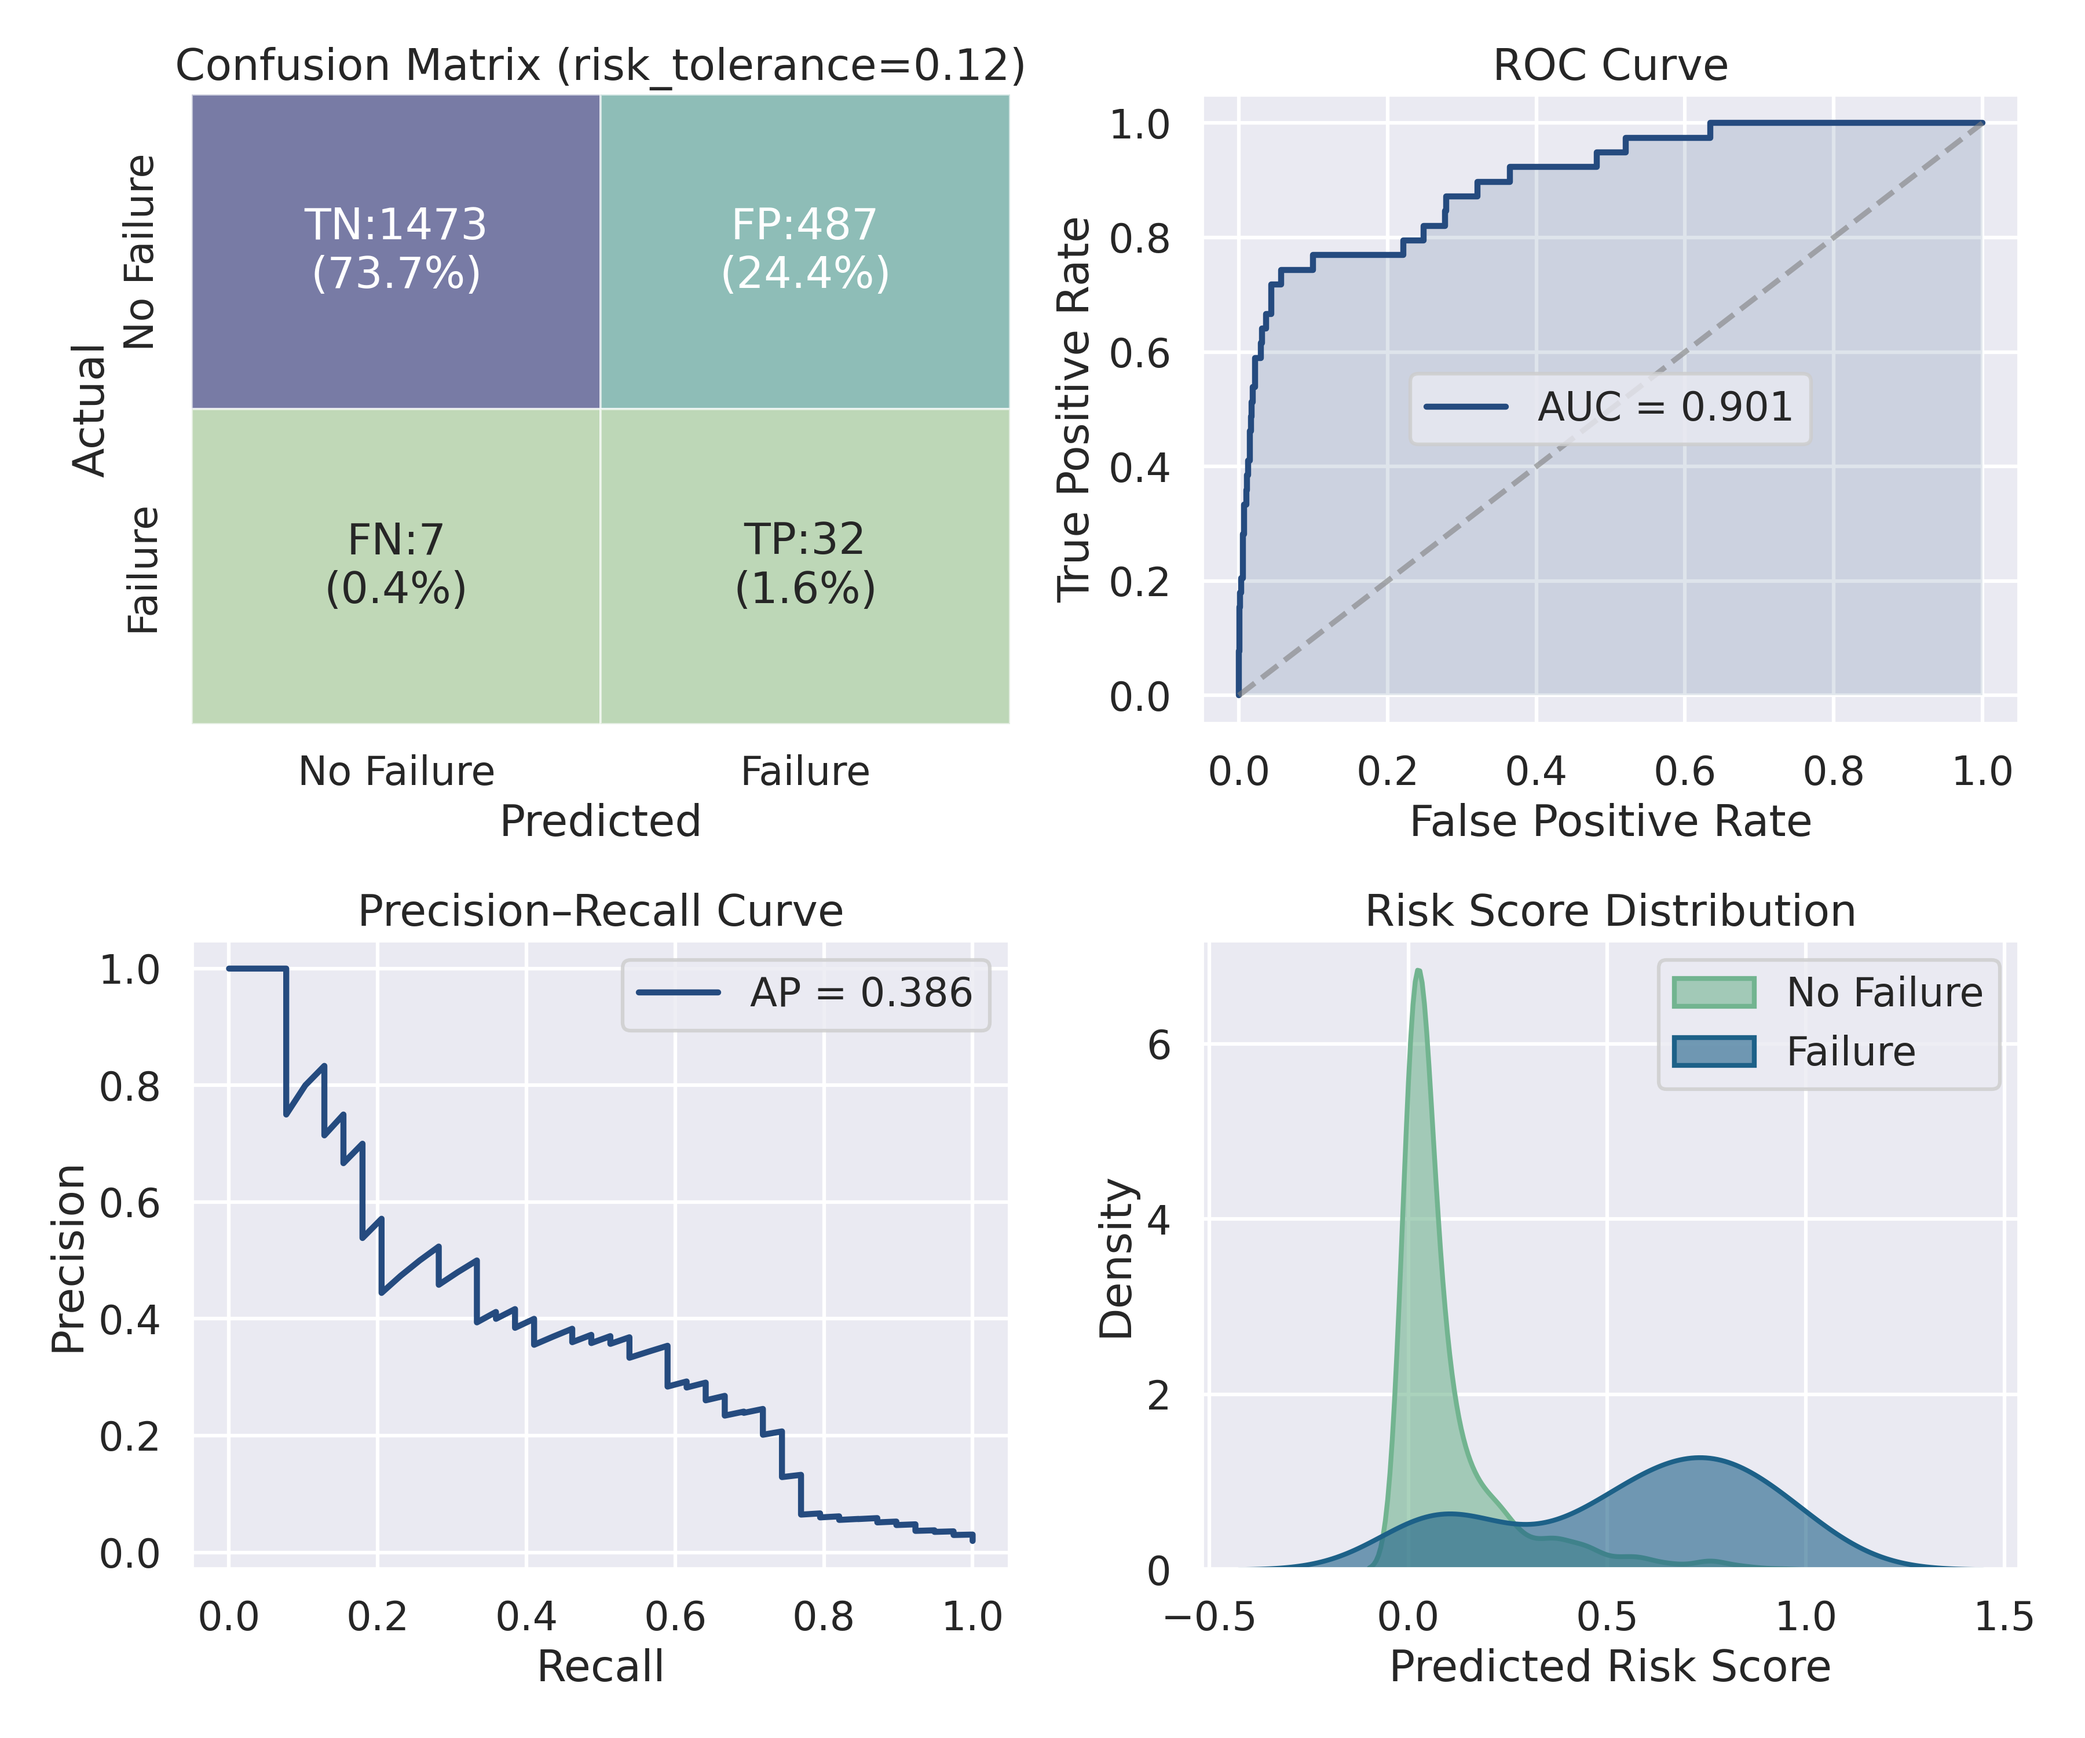
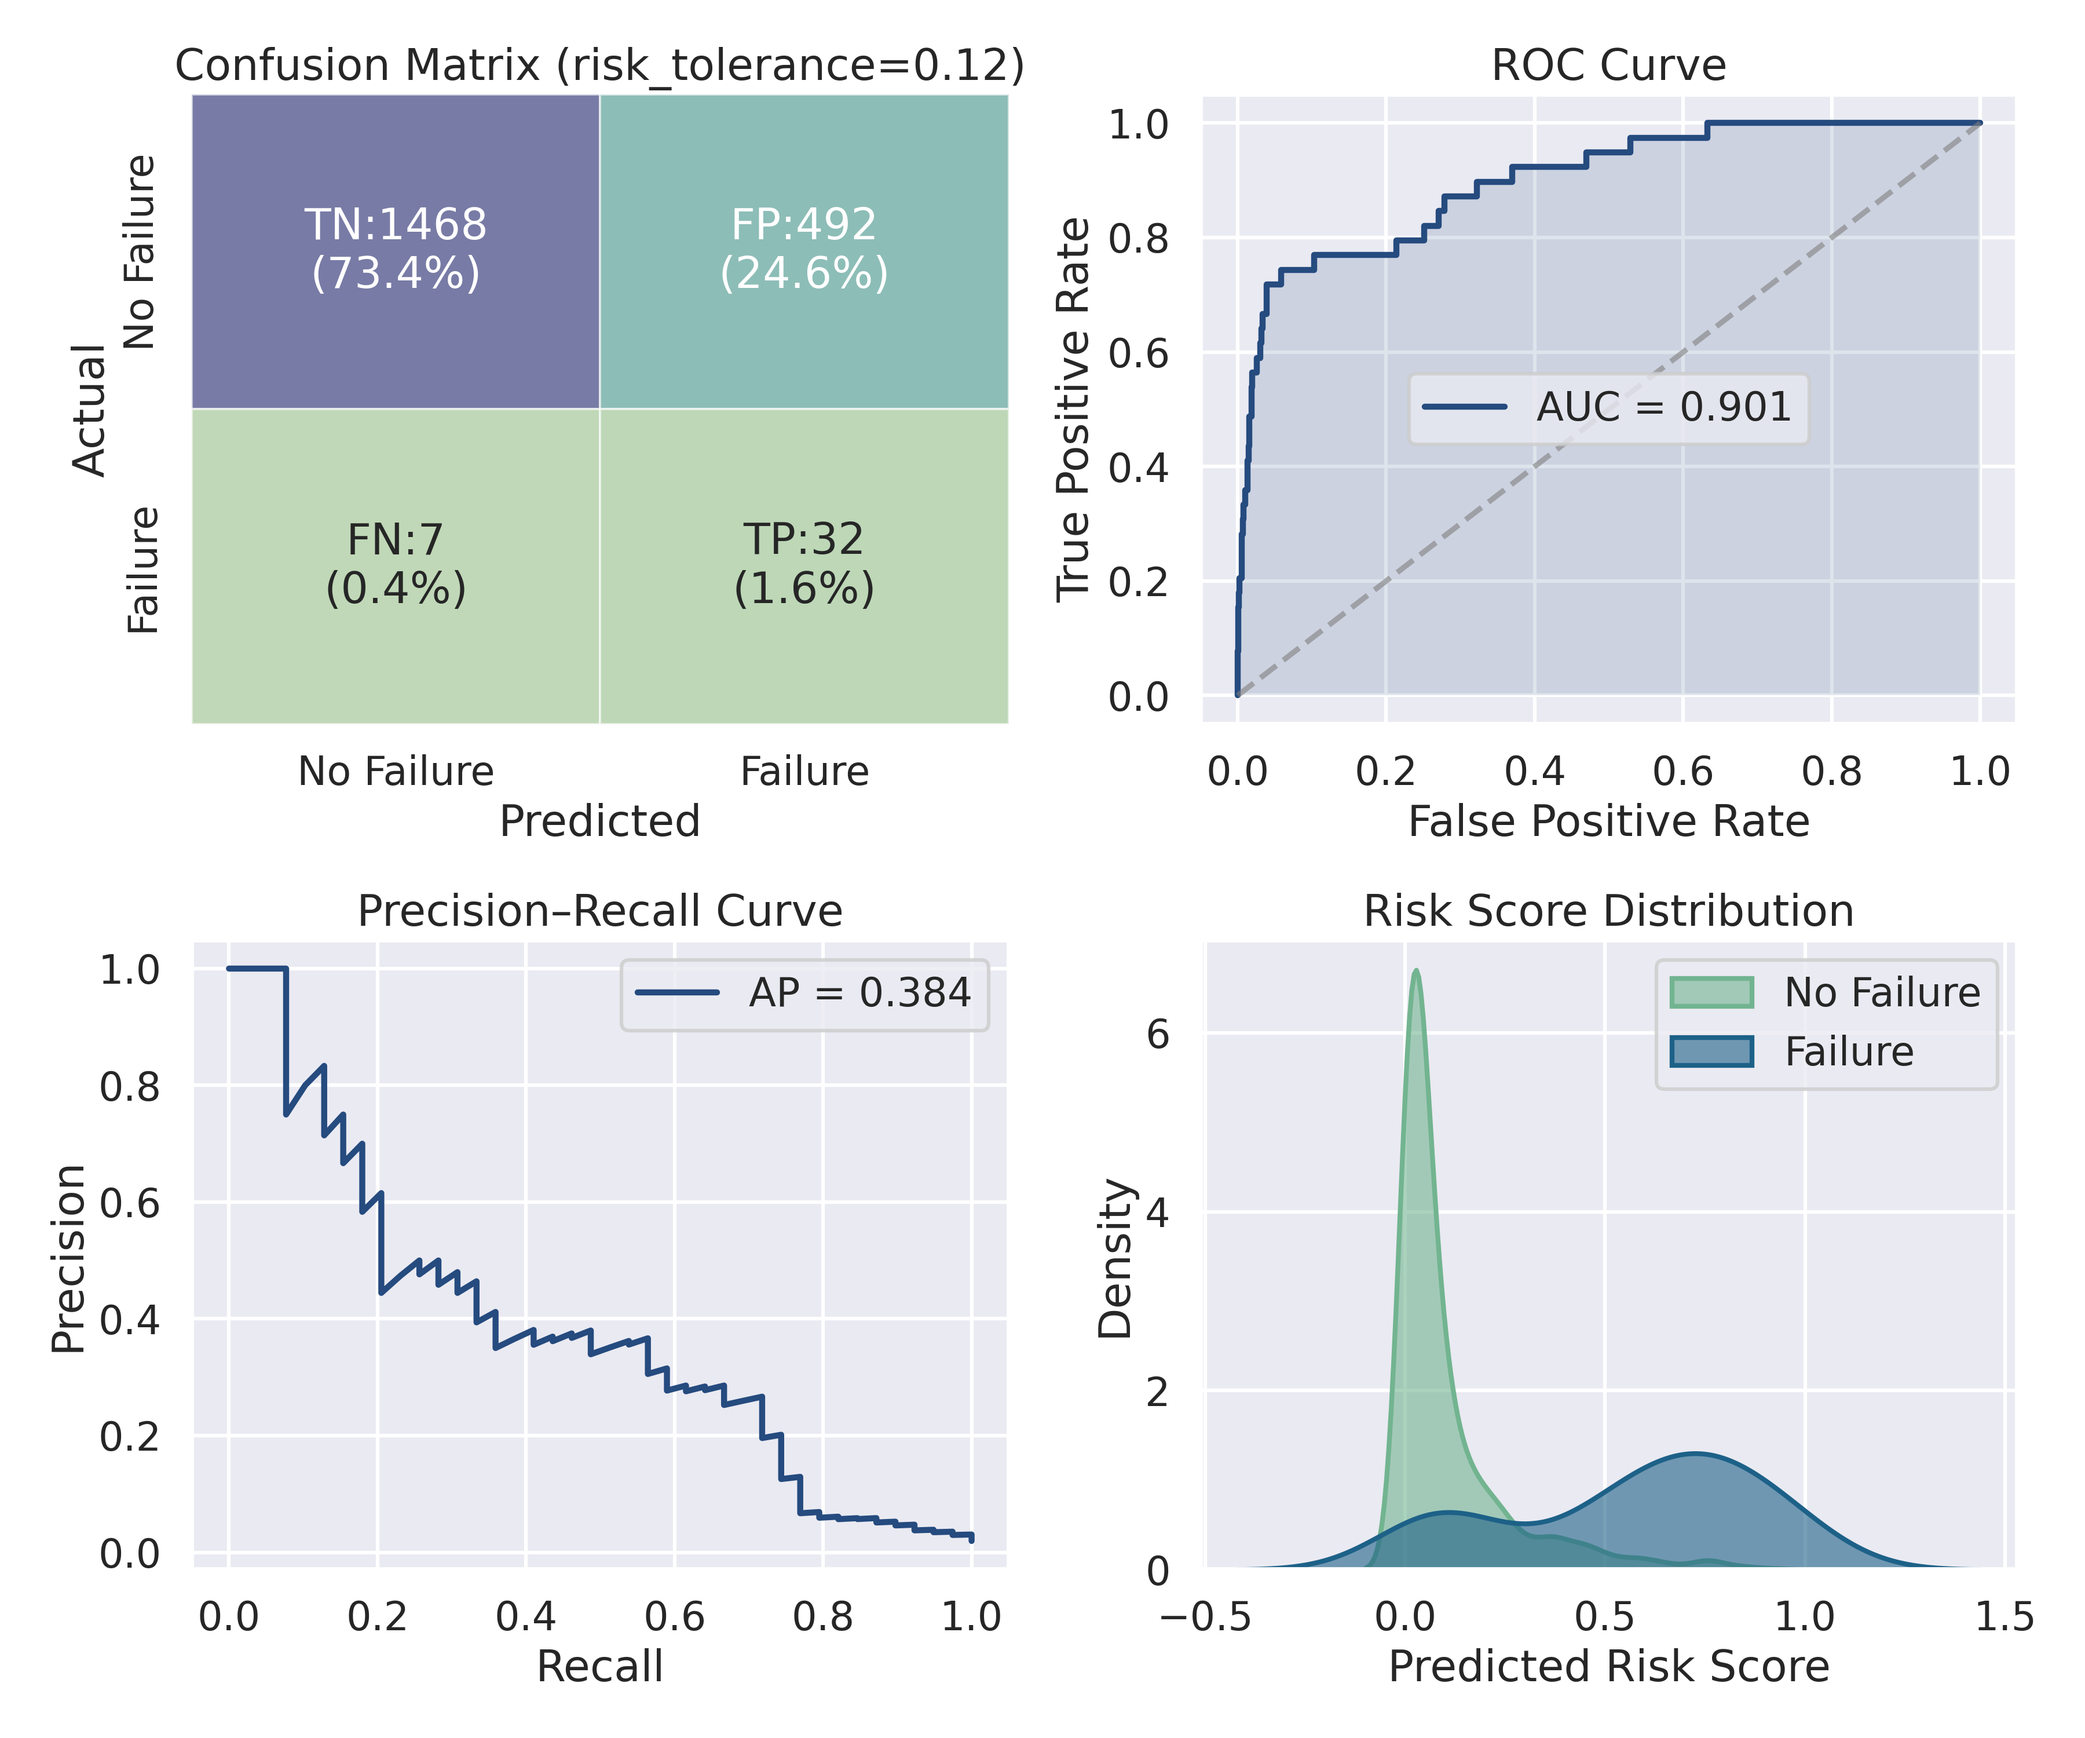
solved the bug now readme.md left

diff --git a/main.py b/main.py
@@ -88,7 +88,7 @@ class RiskEvalModel:
         ])
 
         param_dist = {
-             "clf__C": np.logspace(-3, 2, 50)
+            "clf__C": np.logspace(-5, -1, 50) # Range shifted from -3:2 to -5:-1
         }
         search = RandomizedSearchCV(
             pipe,
@@ -474,7 +474,7 @@ class FailurePredictionSystem:
         dynamic_features = [
             c for c in X.columns 
             if c not in cols_to_exclude 
-            and not any(x in c for x in ['_Rolling_Mean', '_Volatility', '_Delta'])
+            and not any(x in c for x in ['_Rolling_Mean', '_Volatility', '_Delta', '_Rolling_Delta'])
         ]
 
         for col in dynamic_features:
@@ -483,7 +483,6 @@ class FailurePredictionSystem:
             if len(self.history) > 1:
                 current_data_df[f'{col}_Volatility'] = history_dataframe[col].std()
                 current_data_df[f'{col}_Delta'] = self.history[-1][col] - self.history[-2][col]
-                # NEW: Calculate Rolling Delta (Mean of the differences)
                 current_data_df[f'{col}_Rolling_Delta'] = history_dataframe[col].diff().mean()
             else:
                 current_data_df[f'{col}_Volatility'] = 0.0
@@ -495,7 +494,17 @@ class FailurePredictionSystem:
         inference_df = current_data_df.drop(columns=[c for c in cols_to_exclude if c in current_data_df.columns])
         inference_df = inference_df[self.risk_model.feature_names_in_]
         
-        risk_prob = float(self.risk_model.predict_proba(inference_df)[:, 1][0])
+        raw_risk_prob = float(self.risk_model.predict_proba(inference_df)[:, 1][0])
+        
+        if not hasattr(self, 'prob_history'):
+            self.prob_history = []
+            
+        self.prob_history.append(raw_risk_prob)
+        if len(self.prob_history) > 3: 
+            self.prob_history.pop(0)
+
+        risk_prob = sum(self.prob_history) / len(self.prob_history)
+        
         warning_zone = self.risk_tolerance * self.warning_sensitivity
         
         if risk_prob >= warning_zone and risk_prob < self.risk_tolerance:
@@ -507,8 +516,12 @@ class FailurePredictionSystem:
 
         if risk_prob >= self.risk_tolerance:
             alert_status = "CRITICAL"
-        elif self.warning_streak >= self.persistence_threshold:
-            alert_status = "WARNING"
+        elif risk_prob >= warning_zone:
+            self.warning_streak += 1
+            if self.warning_streak >= self.persistence_threshold:
+                alert_status = "WARNING"
+            else:
+                alert_status = "HEALTHY"
         else:
             alert_status = "HEALTHY"
 
